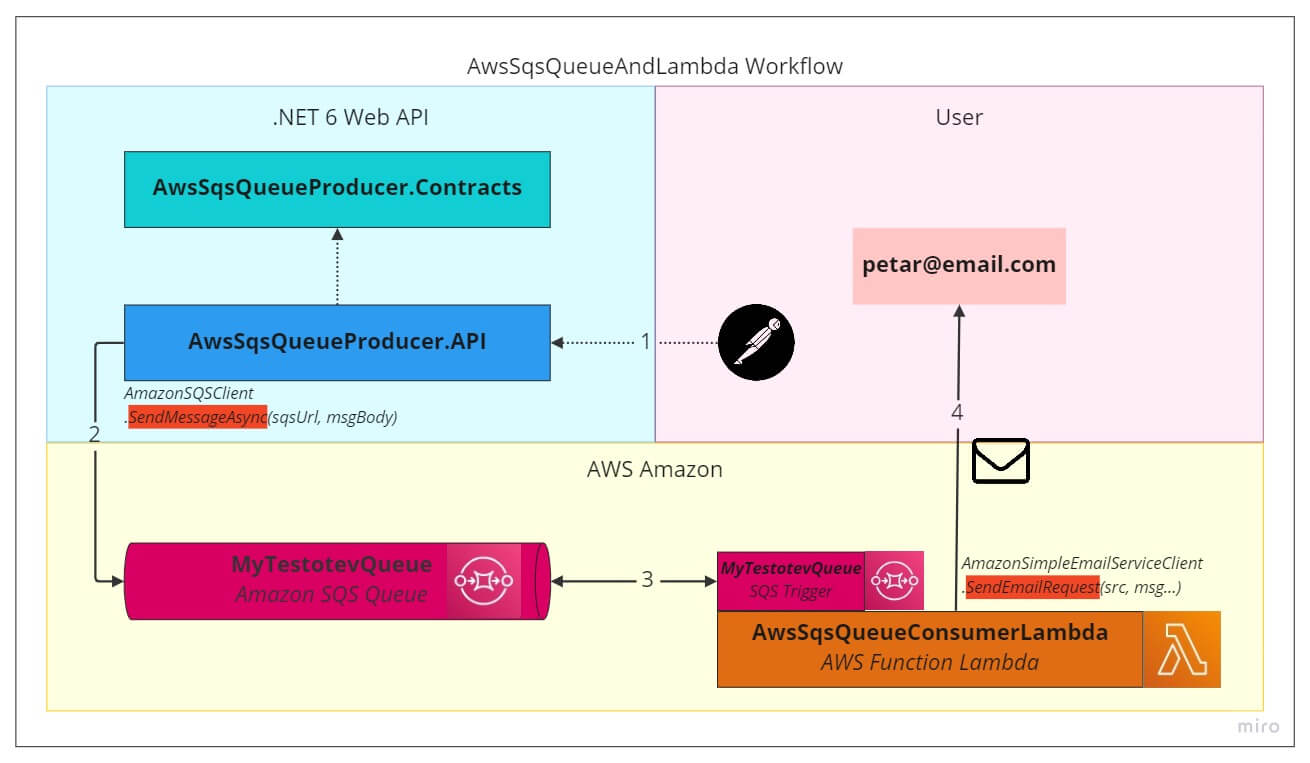
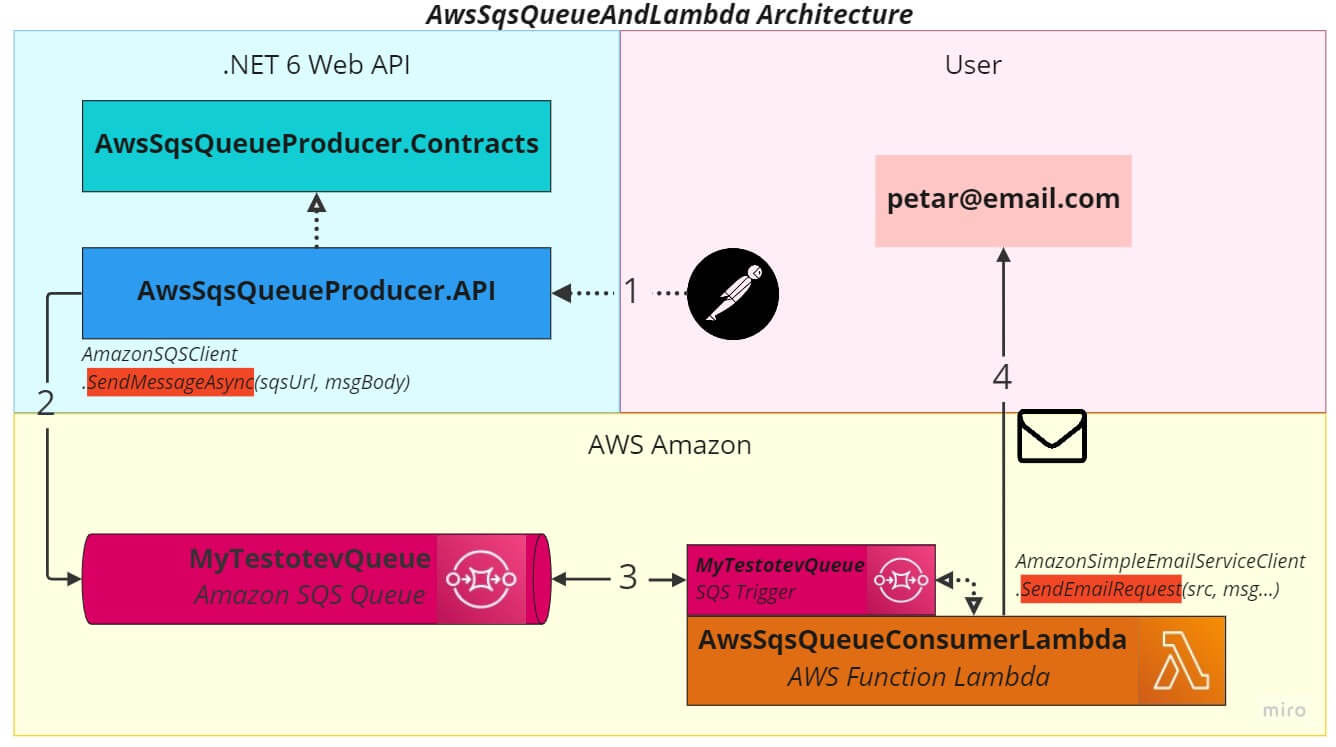
Readme and image updated

diff --git a/README.md b/README.md
@@ -1,12 +1,144 @@
 # PT_Demo_AwsSqsQueueAndLambda
 
+## Content
+
+- [General Information](#general-information)
+- [Architecture](#architecture)
+- [Setup](#setup)
+  - [AWS SQS Queue Setup](#aws-sqs-queue-setup)
+  - [Web API Setup](#web-api-setup)
+  - [AWS Lambda Setup](#aws-lambda-setup)
+
+---
+
+<a name="general-information" ></a>
+
 ## General Information
+
 PT_Demo_AwsSqsQueueAndLambda is a demo project to test both Lambdas and SQS Queues.
 
 ---
+
+<a name="architecture" ></a>
 
 ## Architecture
 
 ![Workflow](res/images/workflow.jpg)
 
 ---
+
+<a name="setup" ></a>
+
+## Setup
+
+<a name="aws-sqs-queue-setup" ></a>
+
+### AWS SQS Queue Setup
+
+In the aws.amazon.com UI, create a new SQS Queue.  
+With the UI, one can send a message.  
+Then, from a CMD console, you can get the message using the following AWS command:  
+
+```
+aws sqs receive-message --queue-url https://sqs.eu-central-1.amazonaws.com/{id}/{queue-name}
+````
+
+Copy the URL of the SQS Queue and place it as a 'AwsSqsQueueUrl' variable in the Web API's appsettings.json.
+
+---
+
+<a name="web-api-setup" ></a>
+
+### Web API Setup
+
+Run AwsSqsQueueProducer.API locally on port 5194: http://localhost:5194 .
+
+Having the SQS Queue URL in the **appsettings.json**, all incoming HTTP Post requests to http://localhost:5194/api/articles should be processed and resent through an **AmazonSQSClient** (coming from NuGet package **Amazon.SQS**) to the SQS Queue.
+
+The format of the body of the Post request should be as follows:
+```json
+{
+    "title": "title",
+    "description": "description",
+    "content": "content",
+    "dateCreated": "2022-11-07",
+    "authors": [
+        {
+            "firstName": "firstName1",
+            "lastName": "lastName1",
+            "age": 33
+        },
+        {
+            "firstName": "firstName2",
+            "lastName": "lastName2",
+            "age": 22
+        }
+    ],
+    "publishers": [
+        {
+            "name": "name",
+            "datePublished": "2022-11-24"
+        }
+    ]
+}
+```
+You should now be able to find all sent requests to Web API in the SQS Queue.  
+You can get such messages from the queue using the aws command mentioned in section [AWS SQS Queue Setup](#aws-sqs-queue-setup).
+
+---
+
+<a name="aws-lambda-setup" ></a>
+
+#### AWS Lambda Setup
+
+1. First, you need to configure your profile:
+
+```
+aws configure --profile {profile}
+    AWS Access Key ID [********************]: {here}
+	AWS Secret Access Key [********************]: {here}
+	Default region name [eu-central-1]: eu-central-1
+	Default output format [None]:
+```
+
+2. If you don't have the Amazon.Lambda.Tools installed, you need to execute the following command:
+
+```
+dotnet tool install -g Amazon.Lambda.Tools --version 5.4.1 --add-source https://api.nuget.org/v3/index.json
+```
+
+3. Next, you need to have the Amazon Lambda Templates installed:
+
+```
+dotnet new --install Amazon.Lambda.Templates::6.2.0
+```
+
+4. Then you can create your own Lambda project:
+
+```
+dotnet new lambda.EmptyFunction --name {project-name}
+```
+
+5. Implement the project by receiving a SQSEvent, processing it and sending its content to a personal email using an **AmazonSimpleEmailServiceClient** (coming from NuGet package **Amazon.SimpleEmail**).
+
+6. If needed, configure again?
+
+```
+aws configure
+    AWS Access Key ID [********************]: {here}
+	AWS Secret Access Key [********************]: {here}
+	Default region name [eu-central-1]: eu-central-1
+	Default output format [None]:
+```
+
+7. Deploy the project in AWS:
+
+```
+dotnet lambda deploy-function {project-name} --add-source https://api.nuget.org/v3/index.json
+    {enter role choice}
+```
+
+8. Go in the AWS UI, find your newly created Lambda and add a new Trigger of type 'SQS Trigger' and choose the SQS Queue name created in section  [AWS SQS Queue Setup](#aws-sqs-queue-setup).
+
+9. Now every Post request you send to Web API should be processed and sent as a message to an AWS SQS Queue. This message should be processed by the AWS Lambda and sent via an email client to your personal email.  
+That's it.
